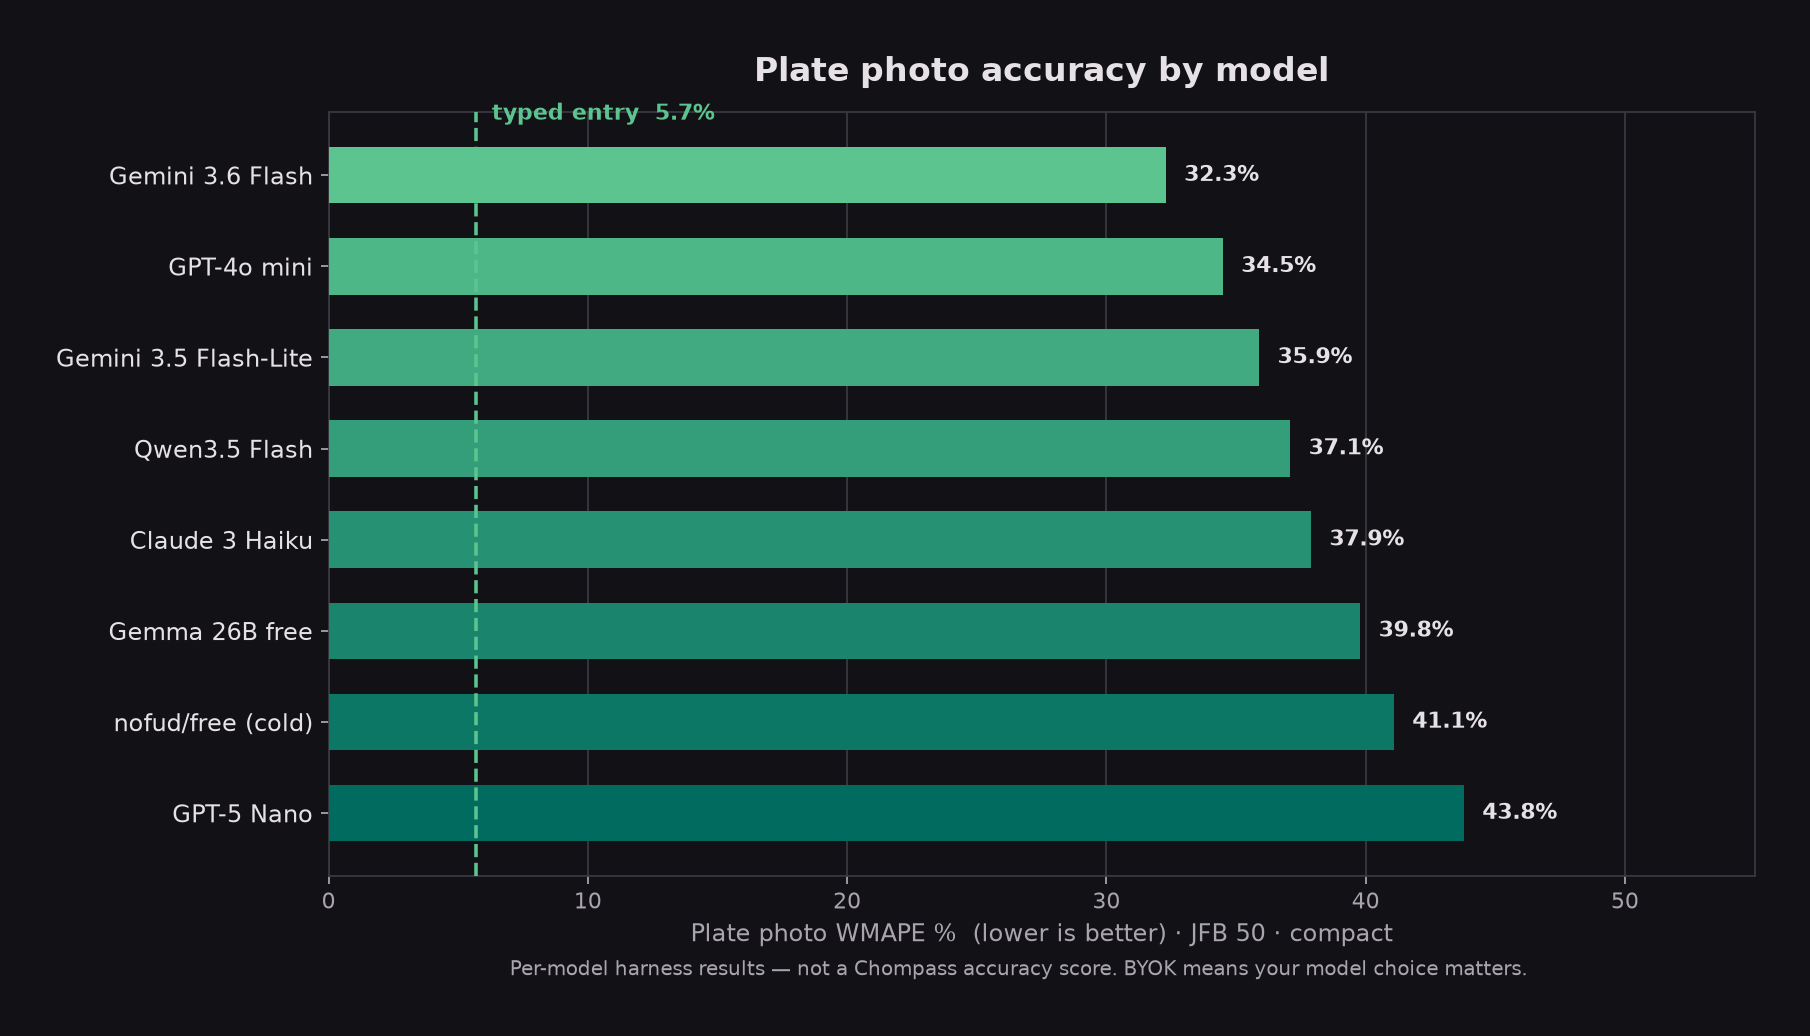
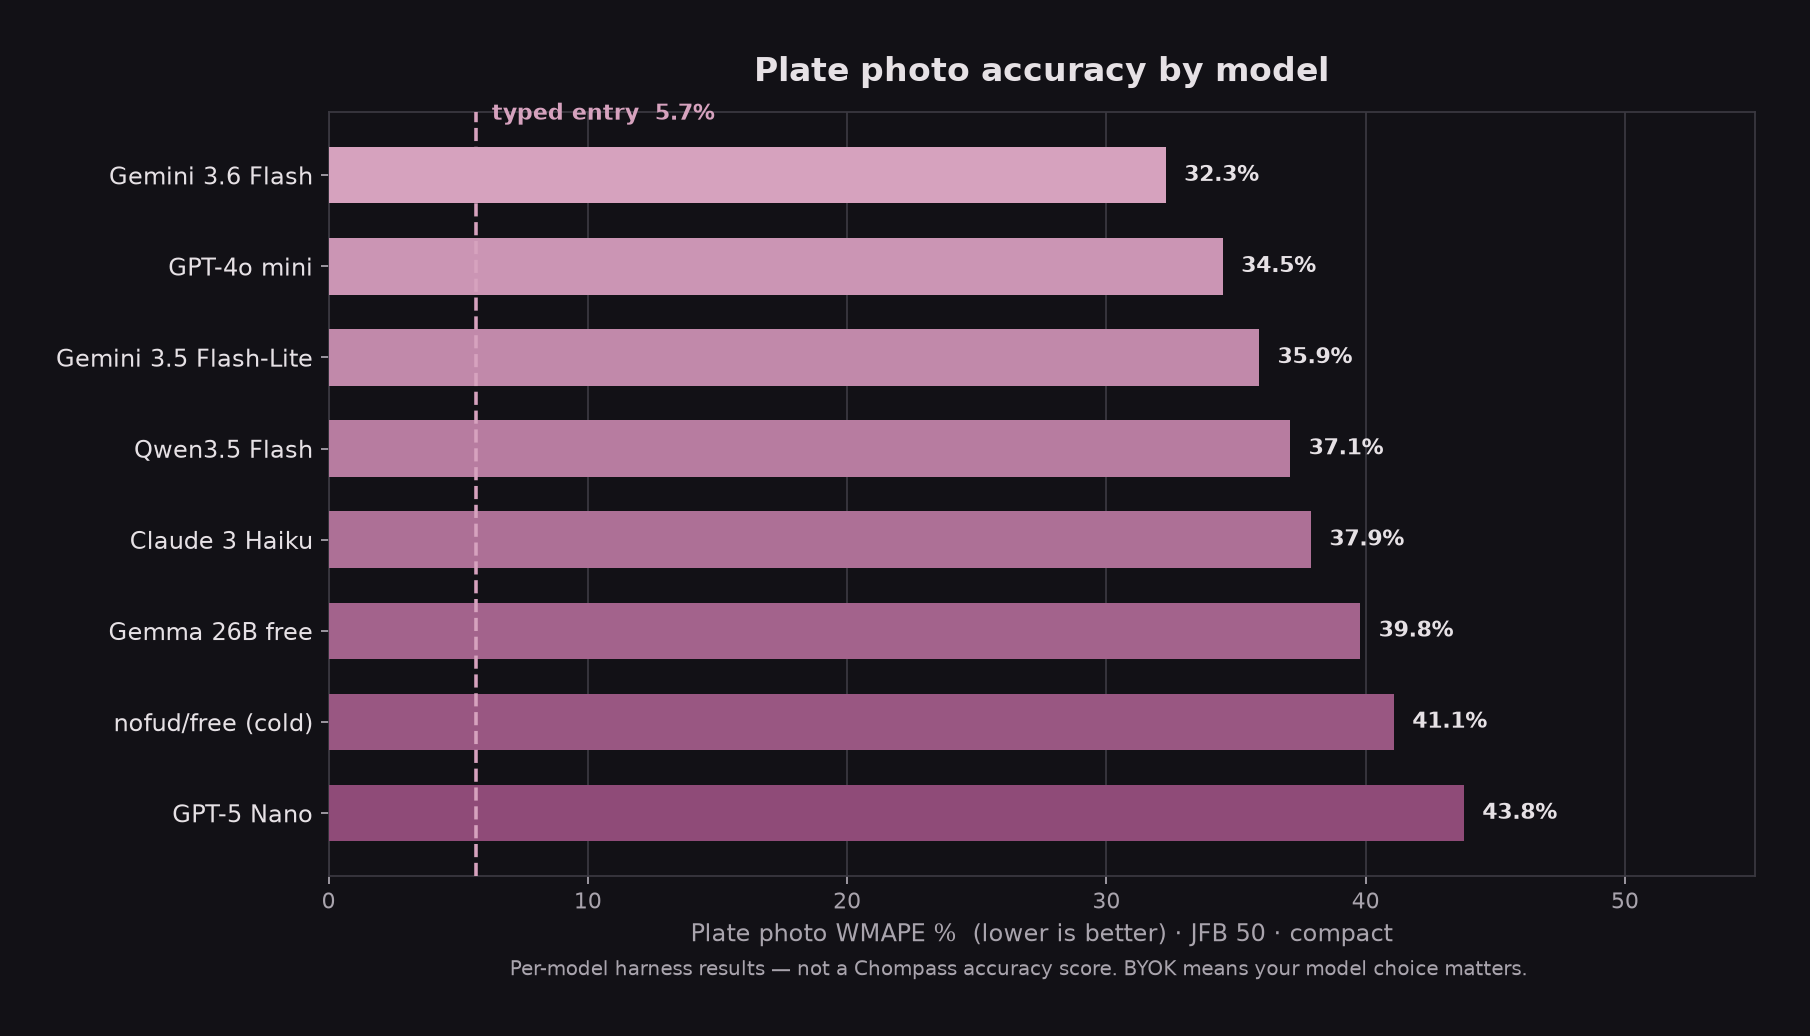
brand: cream/plum palette and bitten-o wordmark on the web app and site
PWA: root tokens move to the warm palette (plum dark, cream light), accent
rules gain plum/peach, the accent list shows Plum then Peach, the saved default
is plum, and the manifest theme color is the brand plum. The two new accent
labels ship in en and de; the other catalogs keep their documented
pending-translation cap (416 → 418 in testdata/parity/locales.json).

Site: warm plum palette, --brand-peach, and a wordmark partial whose "o" is the
bitten path — it stays peach in both schemes, since a plum "o" over-explains
the joke. Header and hero use it; the favicon is the cream tile, theme-color is
plum, and the OG image plus the accuracy charts regenerate on the new tints.

Changed region(s): [[0.1547, 0.4942, 0.8354, 0.834], [0.1547, 0.0927, 0.7116, 0.4633]]

diff --git a/web/app/css/main.css b/web/app/css/main.css
@@ -1,29 +1,29 @@
-/* App chrome aligned with Android AppColors / teal macro palette.
+/* App chrome aligned with Android AppColors / plum macro palette.
    Prefer Compose-like surfaces over marketing-site hero typography. */
 :root {
-  --teal: #5cc48f;
-  --teal-deep: #006b5e;
-  --teal-ink: #003731;
-  --accent: #006b5e;
-  --protein: #5b6ad6;
+  --teal: #d6a2be;
+  --teal-deep: #6e2f5c;
+  --teal-ink: #1c131a;
+  --accent: #8f4b78;
+  --protein: #5a6bd8;
   --carbs: #d9a014;
-  --fat: #e06b58;
-  --fiber: #3d9b56;
+  --fat: #c25e86;
+  --fiber: #4f9e63;
   --kcal: #e891a8;
   --water: #4a90d9;
   --over: #e08585;
   --success: #9cd67d;
-  --bg: #1c1b1f;
-  --bg-elevated: #1d1b20;
-  --surface: #2b2930;
-  --text: #e6e1e5;
-  --muted: #cac4d0;
-  --line: rgba(202, 196, 208, 0.2);
-  --focus: #a7f0c8;
+  --bg: #170e16;
+  --bg-elevated: #221621;
+  --surface: #2a1b28;
+  --text: #fbf0f4;
+  --muted: #b9a8b3;
+  --line: rgba(251, 240, 244, 0.12);
+  --focus: #ffb994;
   --danger: #e08585;
-  --nav-pill: #4a4458; /* M3 secondaryContainer (dark) */
-  --nav-icon-active: #e6e1e5; /* M3 onSecondaryContainer (dark) */
-  --nav-bar: #211f26; /* M3 surfaceContainer (dark) */
+  --nav-pill: #3a2a38; /* warm active pill (dark) */
+  --nav-icon-active: #fbf0f4; /* blush on the active pill (dark) */
+  --nav-bar: #1c1119; /* warm surface container (dark) */
   --radius: 1rem;
   /* Corner-radius steps mirroring Android AppRadii (Tokens.kt) */
   --radius-section-card: 22px;
@@ -73,46 +73,53 @@
 
 @media (prefers-color-scheme: light) {
   :root:not([data-theme="dark"]) {
-    --bg: #fef7ff;
-    --bg-elevated: #fffbfe;
-    --surface: #f7f2fa;
-    --text: #1c1b1f;
-    --muted: #49454f;
-    --line: rgba(121, 116, 126, 0.24);
-    --teal-ink: #003731;
+    --bg: #fff6ec;
+    --bg-elevated: #ffffff;
+    --surface: #fffaf6;
+    --text: #1c131a;
+    --muted: #6e5c63;
+    --line: rgba(110, 92, 99, 0.24);
+    --teal-ink: #1c131a;
     --success: #386a20;
-    --nav-pill: #e8def8;
-    --nav-icon-active: #1c1b1f;
-    --nav-bar: #f3edf7;
+    --nav-pill: #ffd9c2;
+    --nav-icon-active: #1c131a;
+    --nav-bar: #fffaf6;
     color-scheme: light;
   }
 }
 
 :root[data-theme="light"] {
-  --bg: #fef7ff;
-  --bg-elevated: #fffbfe;
-  --surface: #f7f2fa;
-  --text: #1c1b1f;
-  --muted: #49454f;
-  --line: rgba(121, 116, 126, 0.24);
-  --teal-ink: #003731;
+  --bg: #fff6ec;
+  --bg-elevated: #ffffff;
+  --surface: #fffaf6;
+  --text: #1c131a;
+  --muted: #6e5c63;
+  --line: rgba(110, 92, 99, 0.24);
+  --teal-ink: #1c131a;
   --success: #386a20;
-  --nav-pill: #e8def8;
-  --nav-icon-active: #1c1b1f;
-  --nav-bar: #f3edf7;
+  --nav-pill: #ffd9c2;
+  --nav-icon-active: #1c131a;
+  --nav-bar: #fffaf6;
   color-scheme: light;
 }
 
 :root[data-theme="dark"] {
-  --bg: #1c1b1f;
-  --bg-elevated: #1d1b20;
-  --surface: #2b2930;
-  --text: #e6e1e5;
-  --muted: #cac4d0;
-  --line: rgba(202, 196, 208, 0.2);
+  --bg: #170e16;
+  --bg-elevated: #221621;
+  --surface: #2a1b28;
+  --text: #fbf0f4;
+  --muted: #b9a8b3;
+  --line: rgba(251, 240, 244, 0.12);
+  --teal-ink: #1c131a;
+  --nav-pill: #3a2a38;
+  --nav-icon-active: #fbf0f4;
+  --nav-bar: #1c1119;
   color-scheme: dark;
 }
 
+:root[data-accent="plum"] { --accent: #8f4b78; --teal: #d6a2be; --teal-deep: #6e2f5c; }
+:root[data-accent="peach"] { --accent: #c44428; --teal: #ff9a6c; --teal-deep: #c44428; }
+:root[data-accent="teal"] { --accent: #006b5e; --teal: #5cc48f; --teal-deep: #006b5e; --teal-ink: #003731; }
 :root[data-accent="blue"] { --accent: #0061a4; --teal: #4da3ff; --teal-deep: #0061a4; }
 :root[data-accent="green"] { --accent: #386a20; --teal: #6bc45a; --teal-deep: #386a20; }
 :root[data-accent="purple"] { --accent: #6750a4; --teal: #b39ddb; --teal-deep: #6750a4; }

diff --git a/website/assets/css/main.css b/website/assets/css/main.css
@@ -1,29 +1,30 @@
 :root {
-  --teal: #5cc48f;
-  --teal-deep: #006b5e;
-  --teal-ink: #003731;
-  --bg: #0f0e13;
-  --bg-weak: #16151b;
-  --bg-weak-hover: #1d1c23;
-  --bg-strong: #eef0ec;
-  --bg-strong-hover: #f4f6f2;
-  --surface: #24232a;
-  --text: #c9c4cc;
-  --text-weak: #9b96a1;
-  --text-strong: #eef0ec;
-  --text-inverted: #0f0e13;
-  --line: rgba(230, 225, 229, 0.14);
-  --line-weak: rgba(230, 225, 229, 0.08);
-  --icon: #7d7882;
-  --focus: #a7f0c8;
+  --teal: #d6a2be;
+  --teal-deep: #b8759c;
+  --teal-ink: #1c131a;
+  --brand-peach: #ffb994;
+  --bg: #170e16;
+  --bg-weak: #1c1119;
+  --bg-weak-hover: #241722;
+  --bg-strong: #fff6ec;
+  --bg-strong-hover: #ffffff;
+  --surface: #221621;
+  --text: #dccfd6;
+  --text-weak: #a8959f;
+  --text-strong: #fbf0f4;
+  --text-inverted: #1c131a;
+  --line: rgba(251, 240, 244, 0.14);
+  --line-weak: rgba(251, 240, 244, 0.08);
+  --icon: #a8959f;
+  --focus: #ffb994;
   --radius: 8px;
   /* Morphe glass: tint alphas are GlassStrength LIGHT/MEDIUM/STRONG from
      android/.../ui/theme/Traits.kt; blur 18px + saturate(1.2) matches the PWA's
      .card--glass. Tint-only surfaces use --glass-tint with no filter. */
-  --glass-tint: rgba(36, 35, 42, 0.30);
-  --glass-tint-soft: rgba(36, 35, 42, 0.18);
-  --glass-tint-hover: rgba(36, 35, 42, 0.44);
-  --glass-rim: rgba(255, 255, 255, 0.06);
+  --glass-tint: rgba(34, 22, 33, 0.30);
+  --glass-tint-soft: rgba(34, 22, 33, 0.18);
+  --glass-tint-hover: rgba(34, 22, 33, 0.44);
+  --glass-rim: rgba(251, 240, 244, 0.06);
   --glass-blur: 18px;
   --radius-card: 16px;
   --radius-panel: 28px;
@@ -128,6 +129,28 @@ a:hover {
 
 .site-logo:hover {
   color: var(--text-strong);
+}
+
+/* Bitten-o wordmark (docs/brand/logo-system.html): the "o" stays brand peach even
+   when the page tint is fig/plum — the study's guardrail is that plum there would
+   over-explain the joke. */
+.wordmark {
+  letter-spacing: -0.035em;
+  font-weight: 600;
+  white-space: nowrap;
+}
+
+.wordmark__o {
+  width: 0.58em;
+  height: 0.58em;
+  display: inline-block;
+  vertical-align: -0.012em;
+  fill: none;
+  stroke: currentColor;
+  stroke-width: 8;
+  stroke-linecap: round;
+  stroke-linejoin: round;
+  color: var(--brand-peach);
 }
 
 .site-logo img {

diff --git a/web/app/src/components/settings-view.js b/web/app/src/components/settings-view.js
@@ -139,6 +139,8 @@ const ACTIVITY_LEVELS = [
 ];
 const ACCENTS = [
   { id: "system", labelKey: "settings.units.accent_system" },
+  { id: "plum", labelKey: "settings.units.accent_plum" },
+  { id: "peach", labelKey: "settings.units.accent_peach" },
   { id: "teal", labelKey: "settings.units.accent_teal" },
   { id: "blue", labelKey: "settings.units.accent_blue" },
   { id: "green", labelKey: "settings.units.accent_green" },
@@ -1190,7 +1192,7 @@ export class SettingsView extends HTMLElement {
         weightUnit: /** @type {any} */ (fd.get("weightUnit")),
         heightUnit: /** @type {any} */ (fd.get("heightUnit")),
         theme: /** @type {any} */ (fd.get("theme")),
-        accent: String(fd.get("accent") || "system"),
+        accent: String(fd.get("accent") || "plum"),
         weekStartDay: /** @type {"monday"|"sunday"|"saturday"} */ (String(fd.get("weekStartDay") || "monday")),
         weekStartsOnMonday: String(fd.get("weekStartDay") || "monday") === "monday",
         progressDefaultRangeId: String(fd.get("progressDefaultRangeId") || "1W"),

diff --git a/web/app/src/app.js b/web/app/src/app.js
@@ -83,11 +83,11 @@ async function applyThemeAndLocale() {
   const root = document.documentElement;
   if (p.theme === "system") root.removeAttribute("data-theme");
   else root.setAttribute("data-theme", p.theme);
-  // Android default accent is "system" (Material You → teal fallback). PWA "system"/"teal" use CSS defaults.
-  if (p.accent && p.accent !== "teal" && p.accent !== "system") root.setAttribute("data-accent", p.accent);
+  // Android default accent is plum; "system" follows the palette, and the CSS default is plum.
+  if (p.accent && p.accent !== "plum" && p.accent !== "system") root.setAttribute("data-accent", p.accent);
   else root.removeAttribute("data-accent");
   const meta = document.querySelector('meta[name="theme-color"]');
-  if (meta) meta.setAttribute("content", getComputedStyle(root).getPropertyValue("--teal-deep").trim() || "#006b5e");
+  if (meta) meta.setAttribute("content", getComputedStyle(root).getPropertyValue("--teal-deep").trim() || "#6e2f5c");
 }
 
 async function ensureOnboarding() {

diff --git a/website/layouts/partials/head.html b/website/layouts/partials/head.html
@@ -17,8 +17,8 @@
 <meta name="twitter:description" content="{{ $desc }}" />
 <meta name="twitter:image" content="{{ $ogImage }}" />
 <link rel="icon" type="image/x-icon" href="{{ "favicon.ico" | relURL }}" />
-<link rel="icon" type="image/png" href="{{ "img/logo.png" | relURL }}" />
-<meta name="theme-color" content="#0f0e13" />
+<link rel="icon" type="image/png" href="{{ "img/favicon.png" | relURL }}" />
+<meta name="theme-color" content="#170e16" />
 <link rel="stylesheet" href="{{ "fonts/fonts.css" | relURL }}" />
 {{ $css := resources.Get "css/main.css" | minify | fingerprint }}
 <link rel="stylesheet" href="{{ $css.RelPermalink }}" />

diff --git a/website/layouts/partials/header.html b/website/layouts/partials/header.html
@@ -2,7 +2,7 @@
   <div class="site-header__inner">
     <a class="site-logo" href="{{ .Site.Home.RelPermalink }}">
       <img src="{{ "img/logo.png" | relURL }}" alt="" width="32" height="32" />
-      <span>Chompass</span>
+      {{ partial "wordmark.html" . }}
     </a>
     <nav class="site-nav" aria-label="Primary">
       <a href="{{ "features/" | relURL }}"{{ if strings.HasSuffix .RelPermalink "/features/" }} aria-current="page"{{ end }}>Features</a>

diff --git a/web/app/src/lib/i18n/catalogs/de.js b/web/app/src/lib/i18n/catalogs/de.js
@@ -923,6 +923,8 @@ export const de = Object.freeze({
   "settings.units.accent_pink": "Pink",
   "settings.units.accent_purple": "Lila",
   "settings.units.accent_system": "System",
+  "settings.units.accent_plum": "Pflaume",
+  "settings.units.accent_peach": "Pfirsich",
   "settings.units.accent_teal": "Türkis",
   "settings.units.height": "Größe",
   "settings.units.meal_times": "Mahlzeiten",

diff --git a/web/app/src/lib/i18n/catalogs/en.js b/web/app/src/lib/i18n/catalogs/en.js
@@ -958,6 +958,8 @@ export const en = Object.freeze({
   "settings.units.accent_pink": "Pink",
   "settings.units.accent_purple": "Purple",
   "settings.units.accent_system": "System",
+  "settings.units.accent_plum": "Plum",
+  "settings.units.accent_peach": "Peach",
   "settings.units.accent_teal": "Teal",
   "settings.units.height": "Height",
   "settings.units.meal_times": "Meal times",

diff --git a/website/layouts/index.html b/website/layouts/index.html
@@ -13,7 +13,7 @@
         </div>
 
         <div class="hero-copy">
-          <h1 id="hero-brand" class="hero-brand">Chompass</h1>
+          <h1 id="hero-brand" class="hero-brand">{{ partial "wordmark.html" . }}</h1>
           <p class="hero-sub">
             Private calorie tracking for Android and the browser.<br />
             Bring your own AI key, or run Gemma&nbsp;4 on-device.

diff --git a/web/app/src/lib/db.js b/web/app/src/lib/db.js
@@ -544,7 +544,7 @@ export const profile = {
 export const DEFAULT_PREFS = /** @type {AppPrefs} */ ({
   onboardingComplete: false,
   theme: "system",
-  accent: "system",
+  accent: "plum",
   weightUnit: "kg",
   heightUnit: "cm",
   energyUnit: "kcal",

diff --git a/website/layouts/partials/wordmark.html b/website/layouts/partials/wordmark.html
@@ -1,0 +1,1 @@
+<span class="wordmark">ch<svg class="wordmark__o" viewBox="0 0 60 60" aria-hidden="true"><path d="M54.15 23.53A25 25 0 1 1 40.57 7.34A9 9 0 0 0 41.49 20.36A9 9 0 0 0 54.15 23.53Z"/></svg>mpass</span>

diff --git a/scripts/generate_og_image.py b/scripts/generate_og_image.py
@@ -13,11 +13,11 @@ LOGO = ROOT / "website" / "static" / "img" / "logo.png"
 OUT = ROOT / "website" / "static" / "img" / "og.png"
 
 WIDTH, HEIGHT = 1200, 630
-BG = (18, 17, 22)
-TEAL = (77, 182, 172)
-TEAL_DEEP = (0, 107, 94)
-TEXT = (230, 225, 229)
-MUTED = (169, 164, 173)
+BG = (23, 14, 22)
+TEAL = (214, 162, 190)
+TEAL_DEEP = (143, 75, 120)
+TEXT = (251, 240, 244)
+MUTED = (185, 168, 179)
 
 
 def _font_candidates(bold: bool) -> list[Path]:
